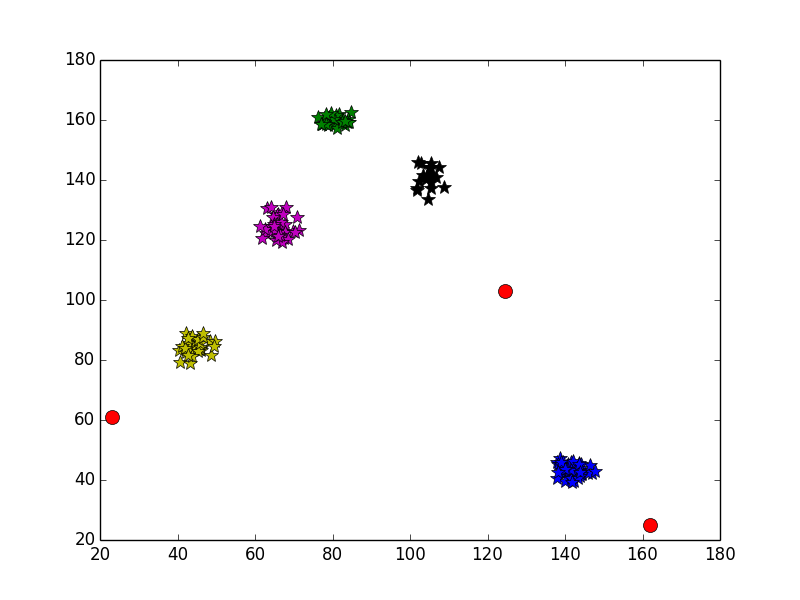
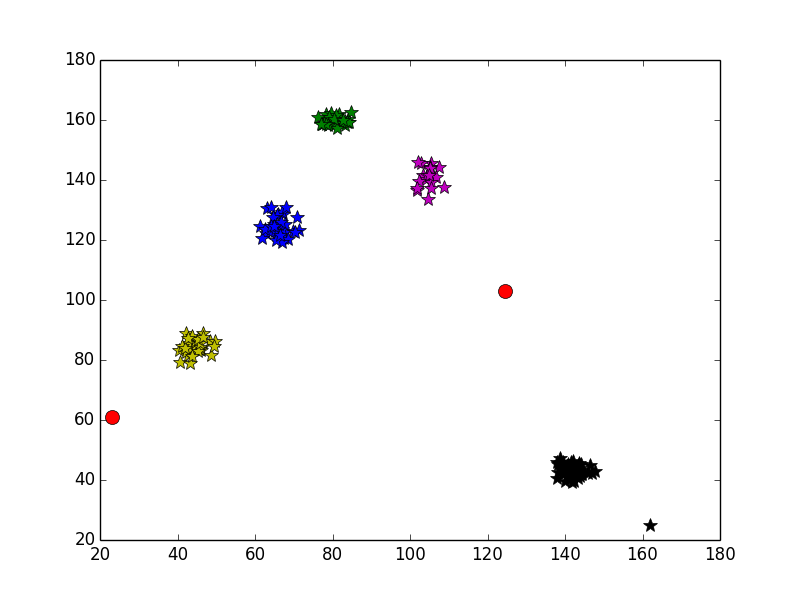
lab6

diff --git a/hierarchicalClustering/Main.py b/hierarchicalClustering/Main.py
@@ -77,9 +77,9 @@ def main():
     # one type of counting similarity better for one data and worse for another
     # as result i can say that type GROUP_AVERAGE worse for test data then MIN and MAX
 
-    hc = HierarchicalClustering(points_set, 3, 6, InterClassSimilarityType.MIN)
+    #hc = HierarchicalClustering(points_set, 3, 6, InterClassSimilarityType.MIN)
     #hc = HierarchicalClustering(points_set, 3, 20, InterClassSimilarityType.MAX)
-    #hc = HierarchicalClustering(points_set, 3, 6, InterClassSimilarityType.GROUP_AVERAGE)
+    hc = HierarchicalClustering(points_set, 3, 6, InterClassSimilarityType.GROUP_AVERAGE)
 
     print_clusters(hc.result_clusters)
     print("Noise:\n" + str(hc.noise_cluster))
